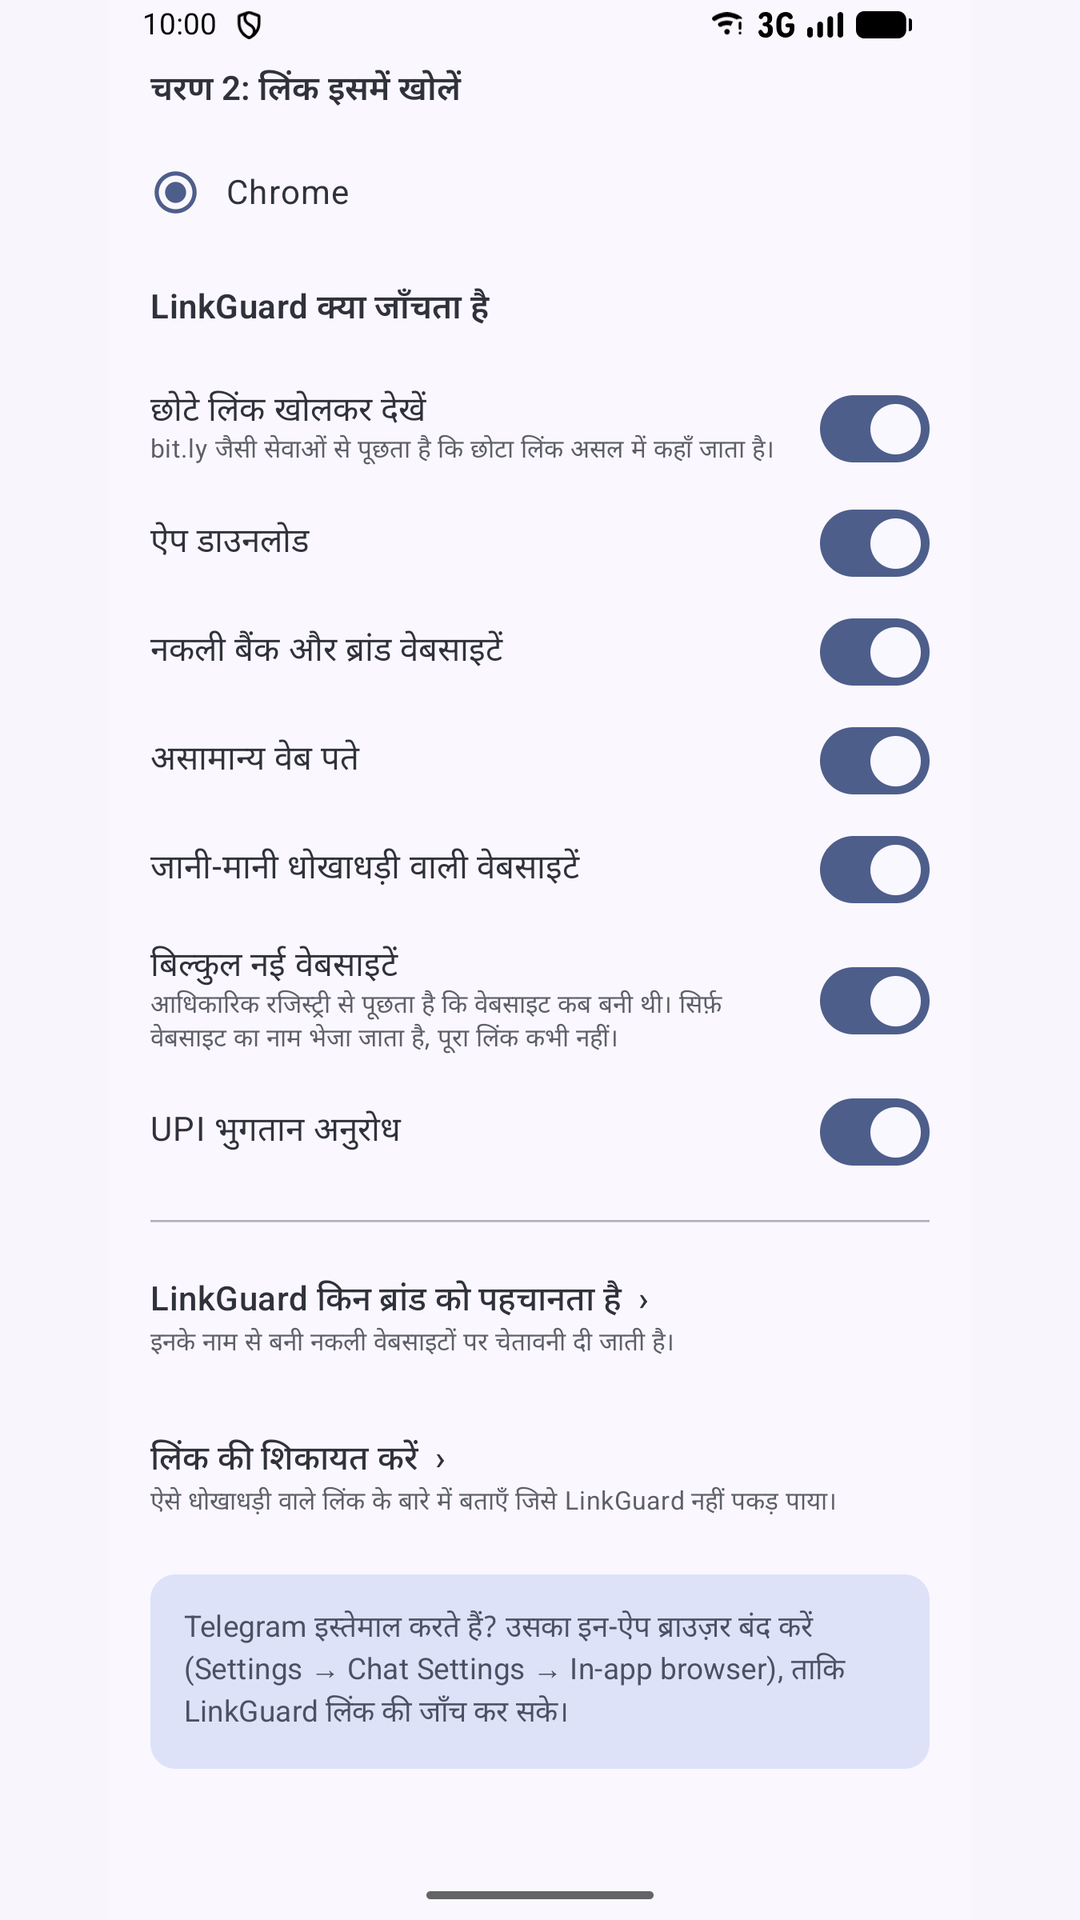
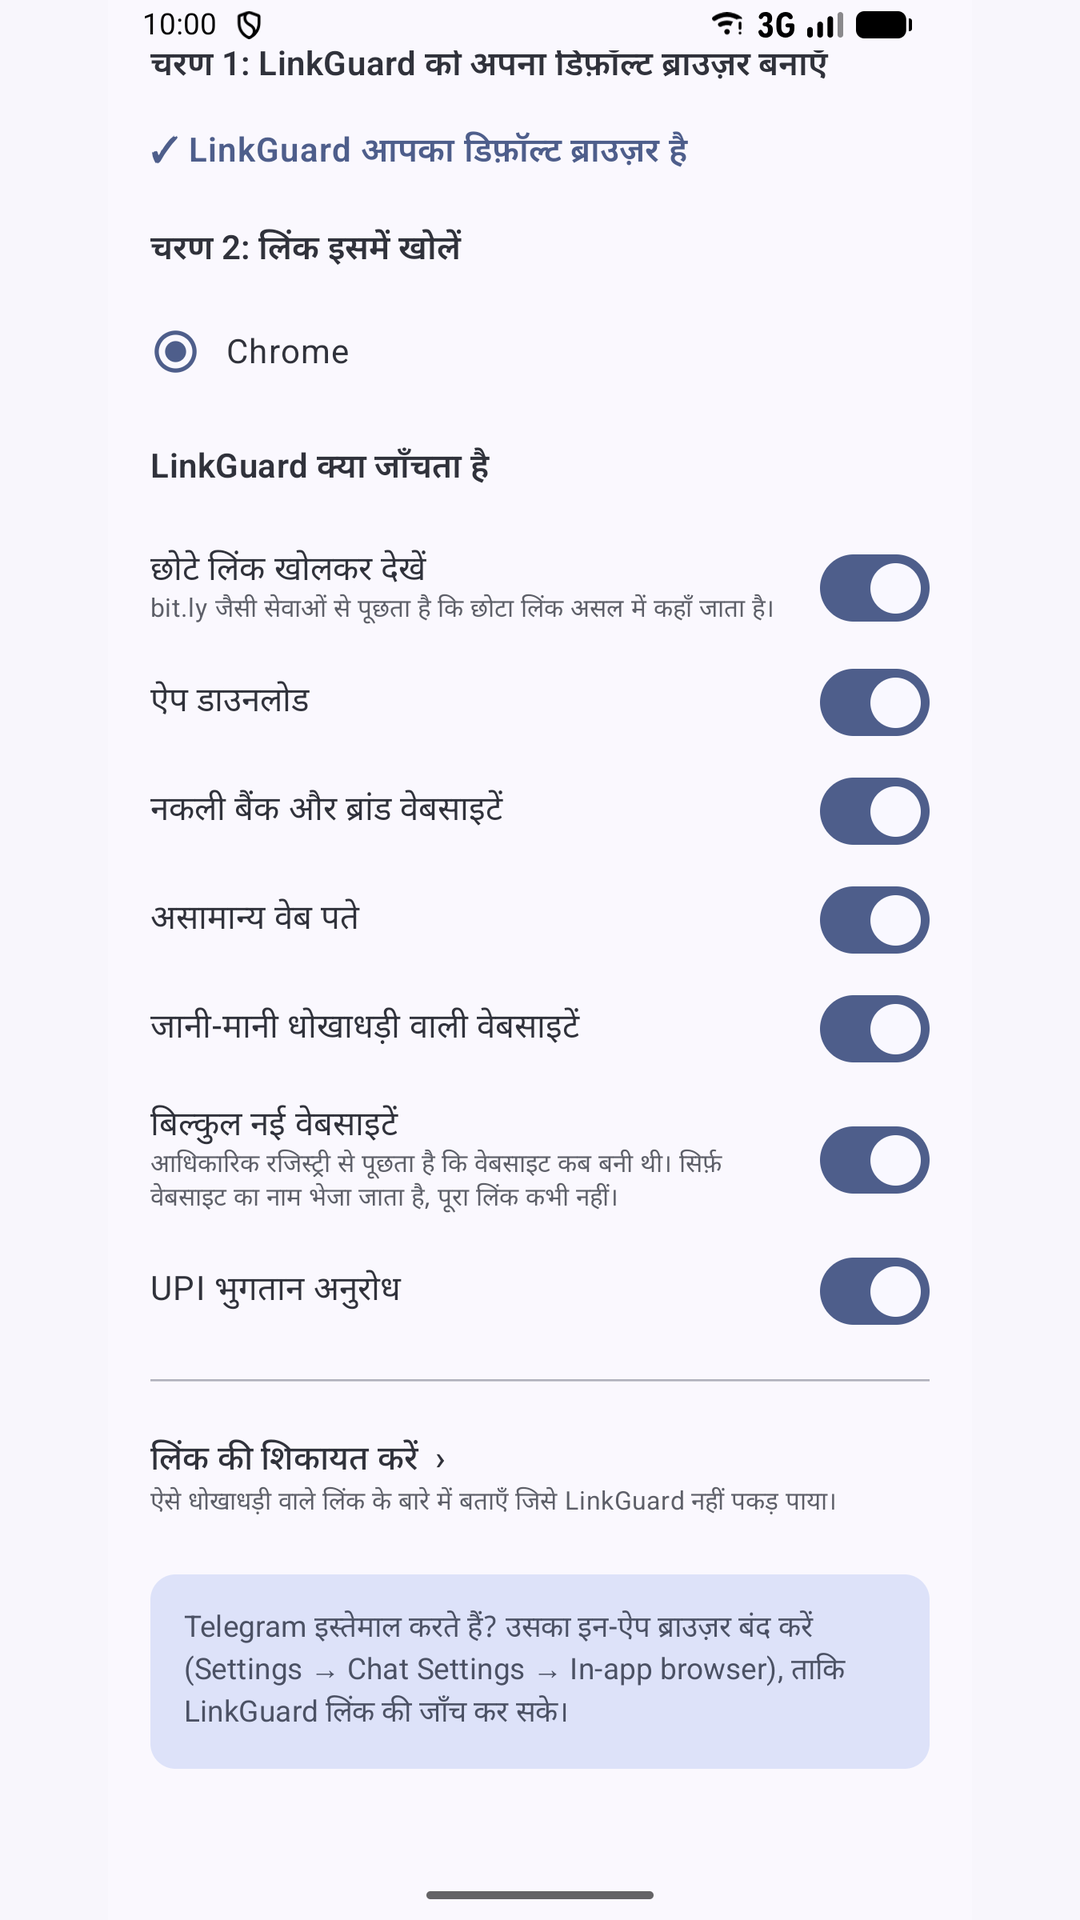
feat: remove the "Brands LinkGuard knows" screen
A visible brand list implies only those brands are protected, and a
complete list would be impractical to show. Brand look-alike detection
is unchanged (brands.tsv); warnings still name the imitated brand.

- Removes the Settings row, the brand list screen and its strings
  (en/hi/ta).
- Re-takes the Play "checks" screenshots (en/hi/ta) and the README home
  screenshot without the row.

diff --git a/app/src/main/java/com/dwarpallabs/linkguard/ui/SubScreens.kt b/app/src/main/java/com/dwarpallabs/linkguard/ui/SubScreens.kt
@@ -5,8 +5,6 @@ import androidx.compose.foundation.layout.Column
 import androidx.compose.foundation.layout.fillMaxSize
 import androidx.compose.foundation.layout.fillMaxWidth
 import androidx.compose.foundation.layout.padding
-import androidx.compose.foundation.lazy.LazyColumn
-import androidx.compose.foundation.lazy.items
 import androidx.compose.foundation.rememberScrollState
 import androidx.compose.foundation.text.KeyboardOptions
 import androidx.compose.foundation.verticalScroll
@@ -31,7 +29,6 @@ import androidx.compose.ui.text.font.FontWeight
 import androidx.compose.ui.text.input.KeyboardType
 import androidx.compose.ui.unit.dp
 import com.dwarpallabs.linkguard.R
-import com.dwarpallabs.linkguard.core.Brand
 
 @Composable
 private fun SubScreen(title: String, onBack: () -> Unit, content: @Composable (Modifier) -> Unit) {
@@ -40,33 +37,6 @@ private fun SubScreen(title: String, onBack: () -> Unit, content: @Composable (M
             TextButton(onClick = onBack, modifier = Modifier.testTag("back")) { Text("‹ " + stringResource(R.string.back)) }
             Text(title, style = MaterialTheme.typography.headlineSmall, fontWeight = FontWeight.Bold)
             content(Modifier.padding(top = 12.dp))
-        }
-    }
-}
-
-/** Read-only list of the bundled brands and their real domains. */
-@Composable
-fun BrandsScreen(brands: List<Brand>, onBack: () -> Unit) {
-    SubScreen(stringResource(R.string.settings_brands), onBack) { modifier ->
-        LazyColumn(modifier, verticalArrangement = Arrangement.spacedBy(12.dp)) {
-            item {
-                Text(
-                    stringResource(R.string.brands_intro),
-                    style = MaterialTheme.typography.bodyMedium,
-                    color = MaterialTheme.colorScheme.onSurfaceVariant,
-                )
-            }
-            items(brands, key = { it.name }) { brand ->
-                Column {
-                    Text(brand.name, style = MaterialTheme.typography.titleMedium)
-                    val domains = brand.officialDomains.joinToString(", ") { if (it.startsWith(".")) "*$it" else it }
-                    Text(
-                        domains.ifEmpty { stringResource(R.string.brands_gov_only) },
-                        style = MaterialTheme.typography.bodySmall,
-                        color = MaterialTheme.colorScheme.onSurfaceVariant,
-                    )
-                }
-            }
         }
     }
 }

diff --git a/app/src/main/java/com/dwarpallabs/linkguard/MainActivity.kt b/app/src/main/java/com/dwarpallabs/linkguard/MainActivity.kt
@@ -13,16 +13,13 @@ import androidx.activity.enableEdgeToEdge
 import androidx.activity.result.contract.ActivityResultContracts
 import androidx.compose.runtime.getValue
 import androidx.compose.runtime.mutableStateOf
-import androidx.compose.runtime.produceState
 import androidx.compose.runtime.saveable.rememberSaveable
 import androidx.compose.runtime.setValue
 import androidx.lifecycle.lifecycleScope
 import com.dwarpallabs.linkguard.browser.BrowserApp
 import com.dwarpallabs.linkguard.browser.Browsers
-import com.dwarpallabs.linkguard.core.Brand
 import com.dwarpallabs.linkguard.core.CheckId
 import com.dwarpallabs.linkguard.core.NormalisedUrl
-import com.dwarpallabs.linkguard.ui.BrandsScreen
 import com.dwarpallabs.linkguard.ui.HomeScreen
 import com.dwarpallabs.linkguard.ui.ReportScreen
 import com.dwarpallabs.linkguard.ui.ReportStatus
@@ -34,7 +31,7 @@ import kotlinx.coroutines.withContext
 /** First-launch setup and Settings: default browser, forward-to browser, check toggles, brands, reporting. */
 class MainActivity : ComponentActivity() {
 
-    private enum class Screen { HOME, BRANDS, REPORT }
+    private enum class Screen { HOME, REPORT }
 
     private var isDefault by mutableStateOf(false)
     private var browsers by mutableStateOf(emptyList<BrowserApp>())
@@ -74,15 +71,8 @@ class MainActivity : ComponentActivity() {
                             prefs.setCheckEnabled(check, enabled)
                             disabledChecks = prefs.disabledChecks
                         },
-                        onOpenBrands = { screen = Screen.BRANDS },
                         onOpenReport = { screen = Screen.REPORT },
                     )
-                    Screen.BRANDS -> {
-                        val brands by produceState(emptyList<Brand>()) {
-                            value = withContext(Dispatchers.IO) { (application as LinkGuardApp).data.brands }
-                        }
-                        BrandsScreen(brands, onBack = { screen = Screen.HOME })
-                    }
                     Screen.REPORT -> ReportScreen(
                         status = reportStatus,
                         onBack = { reportStatus = ReportStatus.IDLE; screen = Screen.HOME },

diff --git a/app/src/androidTest/java/com/dwarpallabs/linkguard/ui/SettingsScreenTest.kt b/app/src/androidTest/java/com/dwarpallabs/linkguard/ui/SettingsScreenTest.kt
@@ -48,7 +48,7 @@ class SettingsScreenTest {
                     isDefault = true, browsers = emptyList(), selected = null, disabledChecks = disabled,
                     onSetDefault = {}, onSelectBrowser = {},
                     onToggleCheck = { check, enabled -> prefs.setCheckEnabled(check, enabled); disabled = prefs.disabledChecks },
-                    onOpenBrands = {}, onOpenReport = {},
+                    onOpenReport = {},
                 )
             }
         }
@@ -70,7 +70,7 @@ class SettingsScreenTest {
                     isDefault = false,
                     browsers = listOf(com.dwarpallabs.linkguard.browser.BrowserApp("org.mozilla.firefox", "Firefox")),
                     selected = "org.mozilla.firefox", disabledChecks = emptySet(),
-                    onSetDefault = {}, onSelectBrowser = {}, onToggleCheck = { _, _ -> }, onOpenBrands = {}, onOpenReport = {},
+                    onSetDefault = {}, onSelectBrowser = {}, onToggleCheck = { _, _ -> }, onOpenReport = {},
                 )
             }
         }
@@ -88,7 +88,7 @@ class SettingsScreenTest {
             LinkguardTheme {
                 HomeScreen(
                     isDefault = true, browsers = emptyList(), selected = null, disabledChecks = emptySet(),
-                    onSetDefault = {}, onSelectBrowser = {}, onToggleCheck = { _, _ -> }, onOpenBrands = {}, onOpenReport = {},
+                    onSetDefault = {}, onSelectBrowser = {}, onToggleCheck = { _, _ -> }, onOpenReport = {},
                 )
             }
         }

diff --git a/app/src/main/java/com/dwarpallabs/linkguard/ui/HomeScreen.kt b/app/src/main/java/com/dwarpallabs/linkguard/ui/HomeScreen.kt
@@ -68,7 +68,6 @@ fun HomeScreen(
     onSetDefault: () -> Unit,
     onSelectBrowser: (String) -> Unit,
     onToggleCheck: (CheckId, Boolean) -> Unit,
-    onOpenBrands: () -> Unit,
     onOpenReport: () -> Unit,
 ) {
     Scaffold(modifier = Modifier.fillMaxSize()) { padding ->
@@ -158,7 +157,6 @@ fun HomeScreen(
             }
 
             HorizontalDivider()
-            LinkRow(stringResource(R.string.settings_brands), stringResource(R.string.settings_brands_desc), onOpenBrands, "open_brands")
             LinkRow(stringResource(R.string.settings_report), stringResource(R.string.settings_report_desc), onOpenReport, "open_report")
 
             Card(colors = CardDefaults.cardColors(containerColor = MaterialTheme.colorScheme.secondaryContainer)) {
@@ -275,7 +273,7 @@ private fun HomePreview() {
             browsers = listOf(BrowserApp("com.android.chrome", "Chrome"), BrowserApp("org.mozilla.firefox", "Firefox")),
             selected = "com.android.chrome",
             disabledChecks = setOf(CheckId.DOMAIN_AGE),
-            onSetDefault = {}, onSelectBrowser = {}, onToggleCheck = { _, _ -> }, onOpenBrands = {}, onOpenReport = {},
+            onSetDefault = {}, onSelectBrowser = {}, onToggleCheck = { _, _ -> }, onOpenReport = {},
         )
     }
 }
